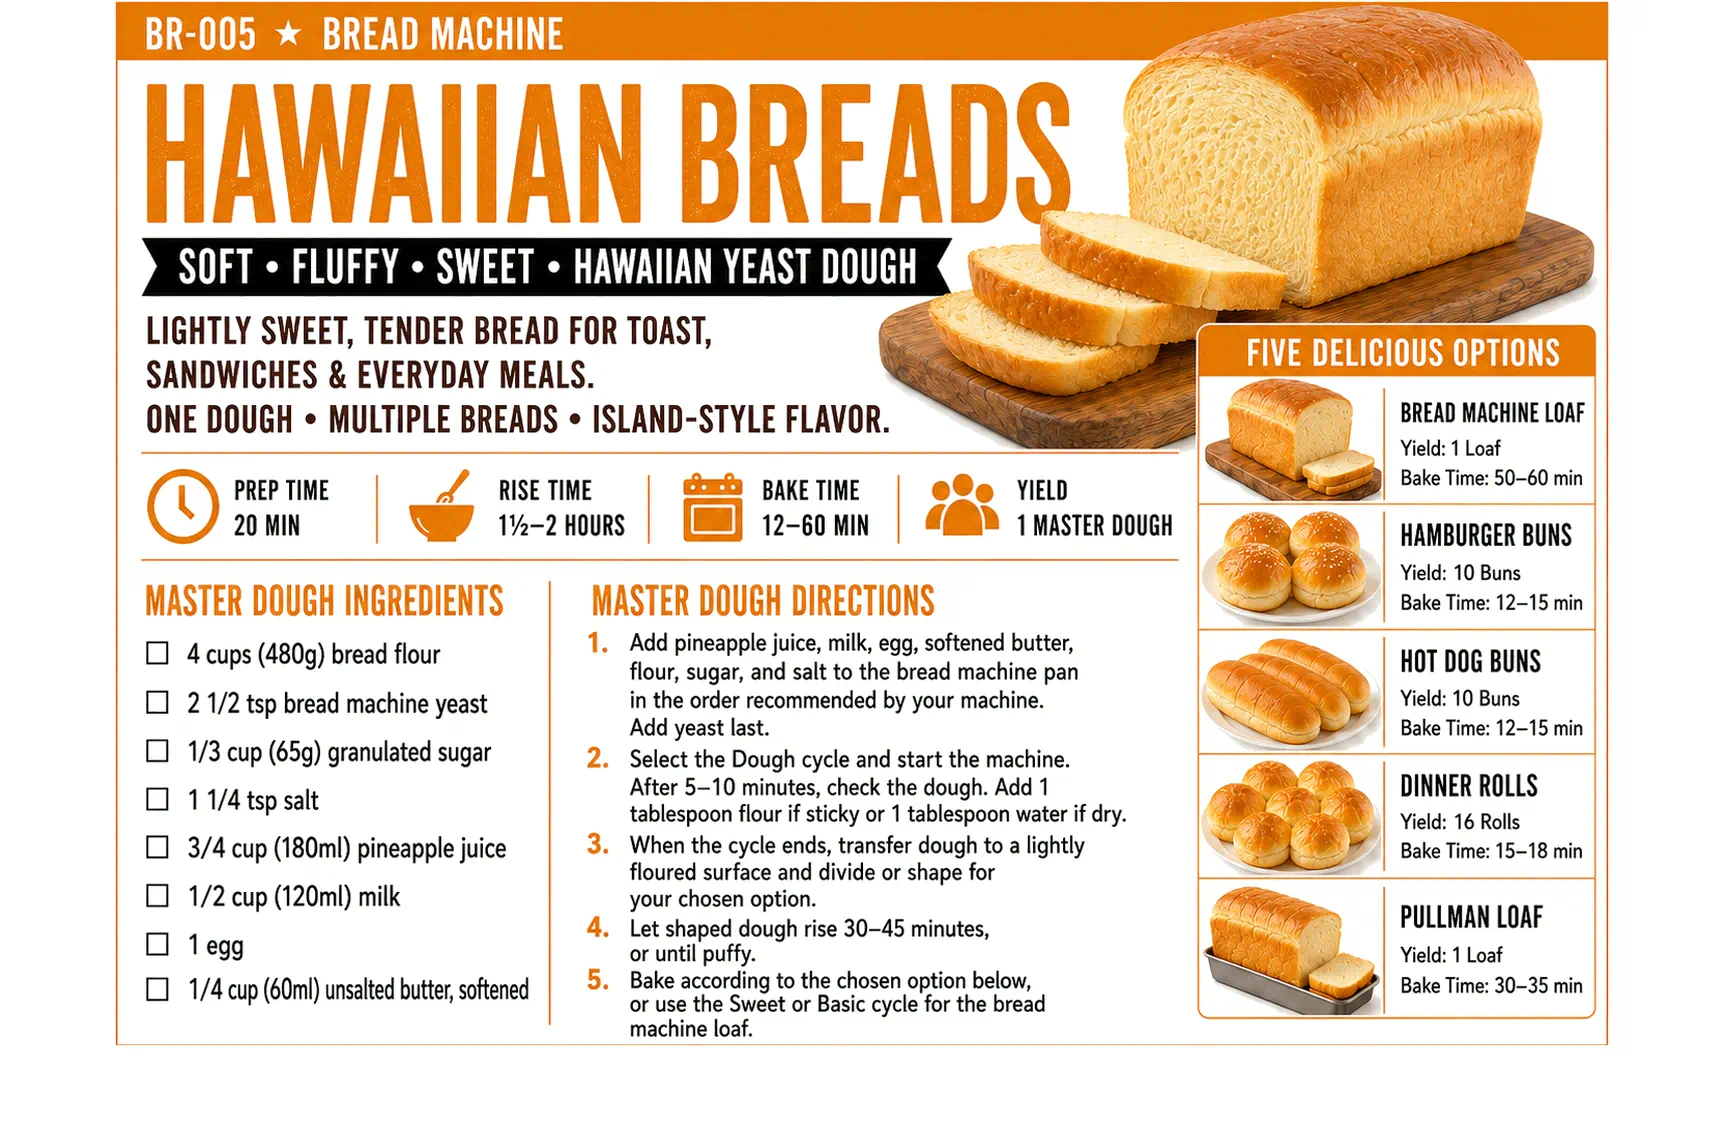
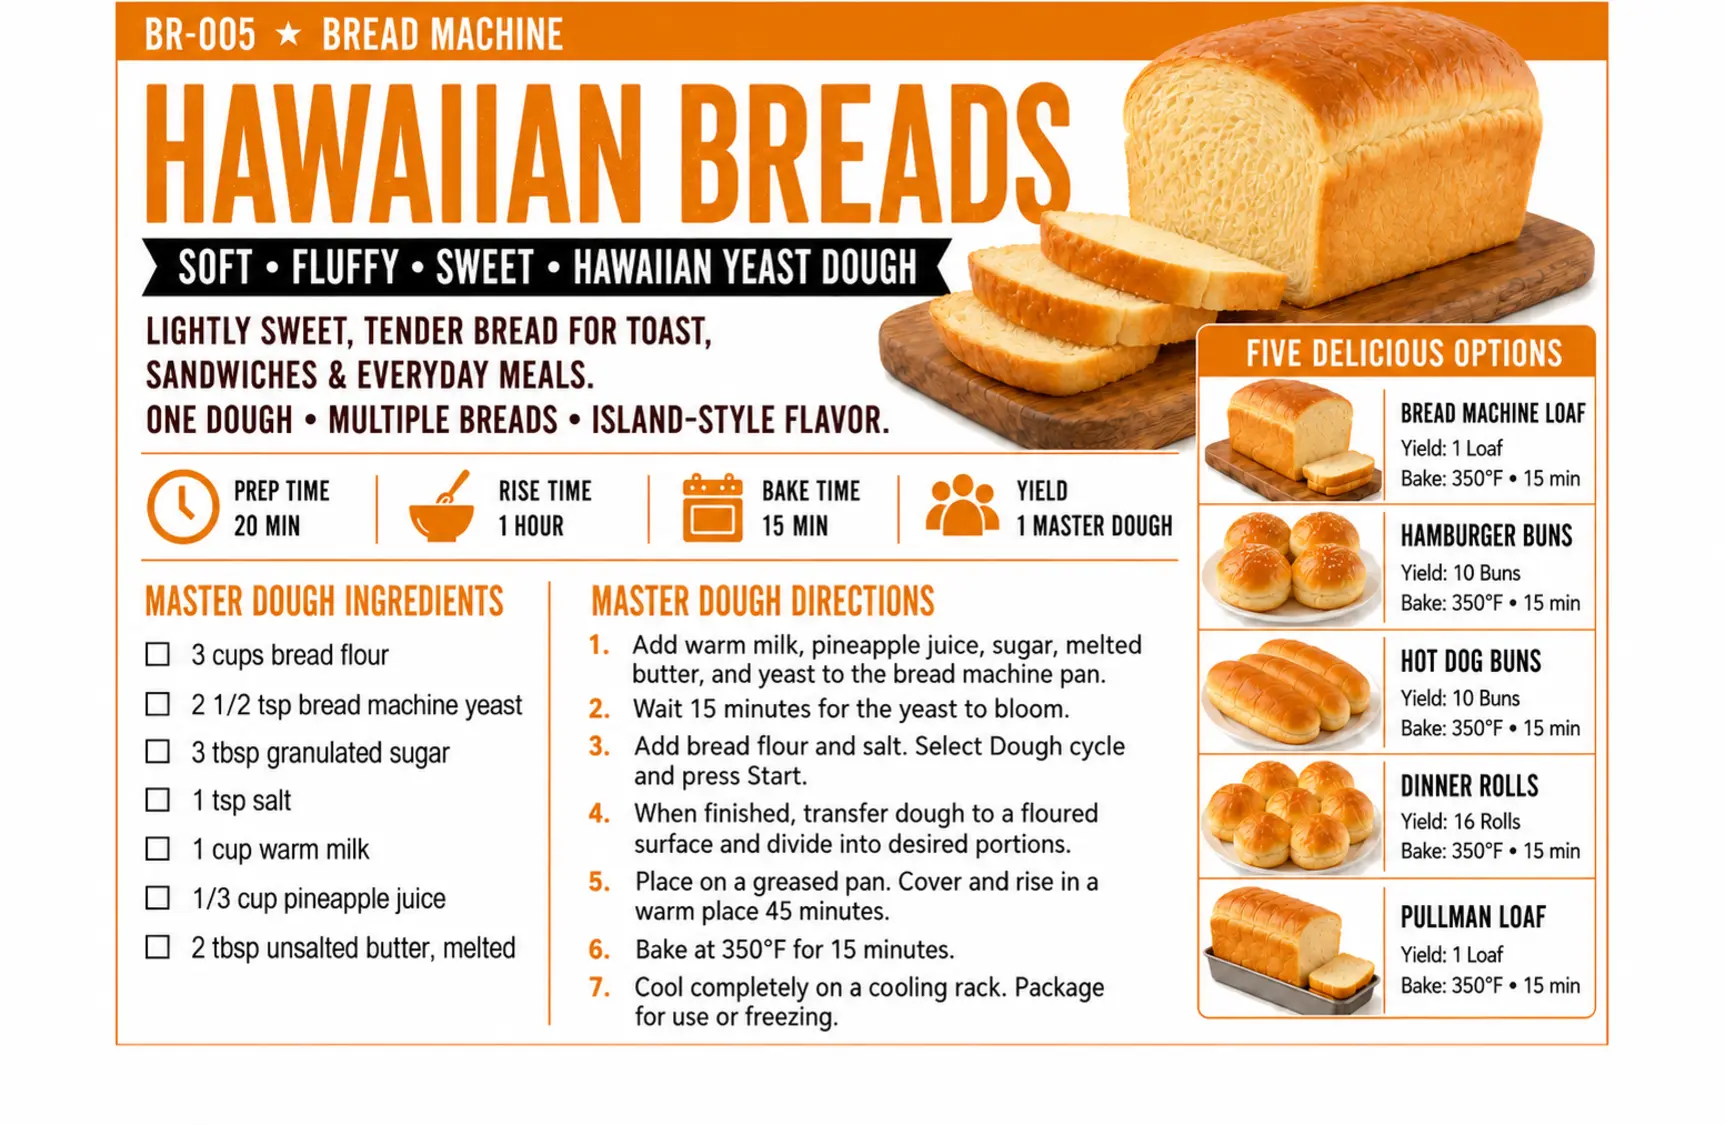
Add files via upload

diff --git a/src/data/ingredientStandards.js b/src/data/ingredientStandards.js
@@ -784,8 +784,9 @@ export const BR_001_011_APPROVED_RESOLUTIONS = Object.freeze({
   "BR-001|Unsalted butter, melted": Object.freeze({ type: "volume-with-shopping-equivalent", recipeName: "Unsalted butter", canonicalName: "Butter - Unsalted", canonicalKey: "dairy.butter.unsalted", preparation: "melted", shoppingEquivalent: "1/4 stick unsalted butter" }),
   "BR-002|Milk": Object.freeze({ type: "metric-equivalent-retained", canonicalName: "Milk", canonicalKey: "dairy.milk" }),
   "BR-003|Buttermilk": Object.freeze({ type: "metric-equivalent-retained", canonicalName: "Buttermilk - Cultured", canonicalKey: "dairy.milk.buttermilk" }),
-  "BR-005|Milk": Object.freeze({ type: "metric-equivalent-retained", canonicalName: "Milk", canonicalKey: "dairy.milk" }),
-  "BR-005|Unsalted butter, softened": Object.freeze({ type: "volume-with-shopping-equivalent", recipeName: "Unsalted butter", canonicalName: "Butter - Unsalted", canonicalKey: "dairy.butter.unsalted", preparation: "softened", shoppingEquivalent: "1/2 stick unsalted butter" }),
+  "BR-005|Warm milk": Object.freeze({ type: "temperature-separated", recipeName: "Milk", canonicalName: "Milk", canonicalKey: "dairy.milk", preparation: "warm" }),
+  "BR-005|Pineapple juice": Object.freeze({ type: "shared-ingredient-identity", canonicalName: "Pineapple Juice", canonicalKey: "beverage.juice.pineapple" }),
+  "BR-005|Unsalted butter, melted": Object.freeze({ type: "volume-with-shopping-equivalent", recipeName: "Unsalted butter", canonicalName: "Butter - Unsalted", canonicalKey: "dairy.butter.unsalted", preparation: "melted", shoppingEquivalent: "1/4 stick unsalted butter" }),
   "BR-007|Whole milk": Object.freeze({ type: "metric-equivalent-retained", canonicalName: "Milk - Whole", canonicalKey: "dairy.milk.whole" }),
   "BR-008|Lemon juice or white vinegar, for tangy flavor": Object.freeze({ type: "approved-alternatives", recipeName: "Lemon juice or white vinegar", canonicalName: "Lemon Juice or White Vinegar", canonicalKey: "choice.acid.lemon-juice-or-white-vinegar", preparation: "choose one, for tangy flavor", acceptableAlternatives: Object.freeze([
     Object.freeze({ canonicalKey: "produce.juice.lemon", canonicalName: "Lemon Juice", recipeName: "Lemon juice", masterItemId: "", matchStatus: "approved-alternative" }),

diff --git a/src/data/breadMachineDirectionsV9510.js b/src/data/breadMachineDirectionsV9510.js
@@ -26,11 +26,13 @@ export const BREAD_MACHINE_DIRECTIONS_V9510 = {
     "Bake according to the chosen option, or use the Basic/White Bread cycle for the bread machine loaf.",
   ],
   "BR-005": [
-    "Add pineapple juice, milk, egg, softened butter, flour, sugar, and salt to the bread machine pan in the order recommended by your machine. Add yeast last.",
-    "Select the Dough cycle and start the machine. After 5–10 minutes, check the dough. Add 1 tablespoon flour if sticky or 1 tablespoon water if dry.",
-    "When the cycle ends, transfer dough to a lightly floured surface and divide or shape for your chosen option.",
-    "Let shaped dough rise 30–45 minutes, or until puffy.",
-    "Bake according to the chosen option, or use the Sweet or Basic cycle for the bread machine loaf.",
+    "Add the warm milk, pineapple juice, sugar, melted butter, and yeast to the bread machine pan.",
+    "Wait 15 minutes for the yeast to bloom.",
+    "Add the bread flour and salt. Select the Dough cycle and press Start.",
+    "When the cycle is finished, transfer the dough to a lightly floured surface and divide it into the desired portions for baking.",
+    "Place the portions on a greased baking pan. Cover and let rise in a warm place for 45 minutes.",
+    "Bake at 350°F for 15 minutes.",
+    "Transfer to a cooling rack and cool completely. Package for immediate use or freezing.",
   ],
   "BR-006": [
     "Add warm water, softened butter, sugar, salt, and flours to the bread machine pan in the order recommended by your machine. Add yeast last.",

diff --git a/src/data/specialtyIngredientsV8411.js b/src/data/specialtyIngredientsV8411.js
@@ -47,14 +47,13 @@ export const SPECIALTY_INGREDIENTS_V8411 = cards({
 3|tbsp|Unsalted butter, softened
 `,
   "BR-005": `
-4|cups (480g)|Bread flour
+3|cups|Bread flour
 2.5|tsp|Bread machine yeast
-0.3333333333|cup (65g)|Granulated sugar
-1.25|tsp|Salt
-0.75|cup (180ml)|Pineapple juice
-0.5|cup (120ml)|Milk
-1|each|Egg
-0.25|cup (60ml)|Unsalted butter, softened
+3|tbsp|Granulated sugar
+1|tsp|Salt
+1|cup|Warm milk
+0.3333333333|cup|Pineapple juice
+2|tbsp|Unsalted butter, melted
 `,
   "BR-006": `
 2|cups|Bread flour
